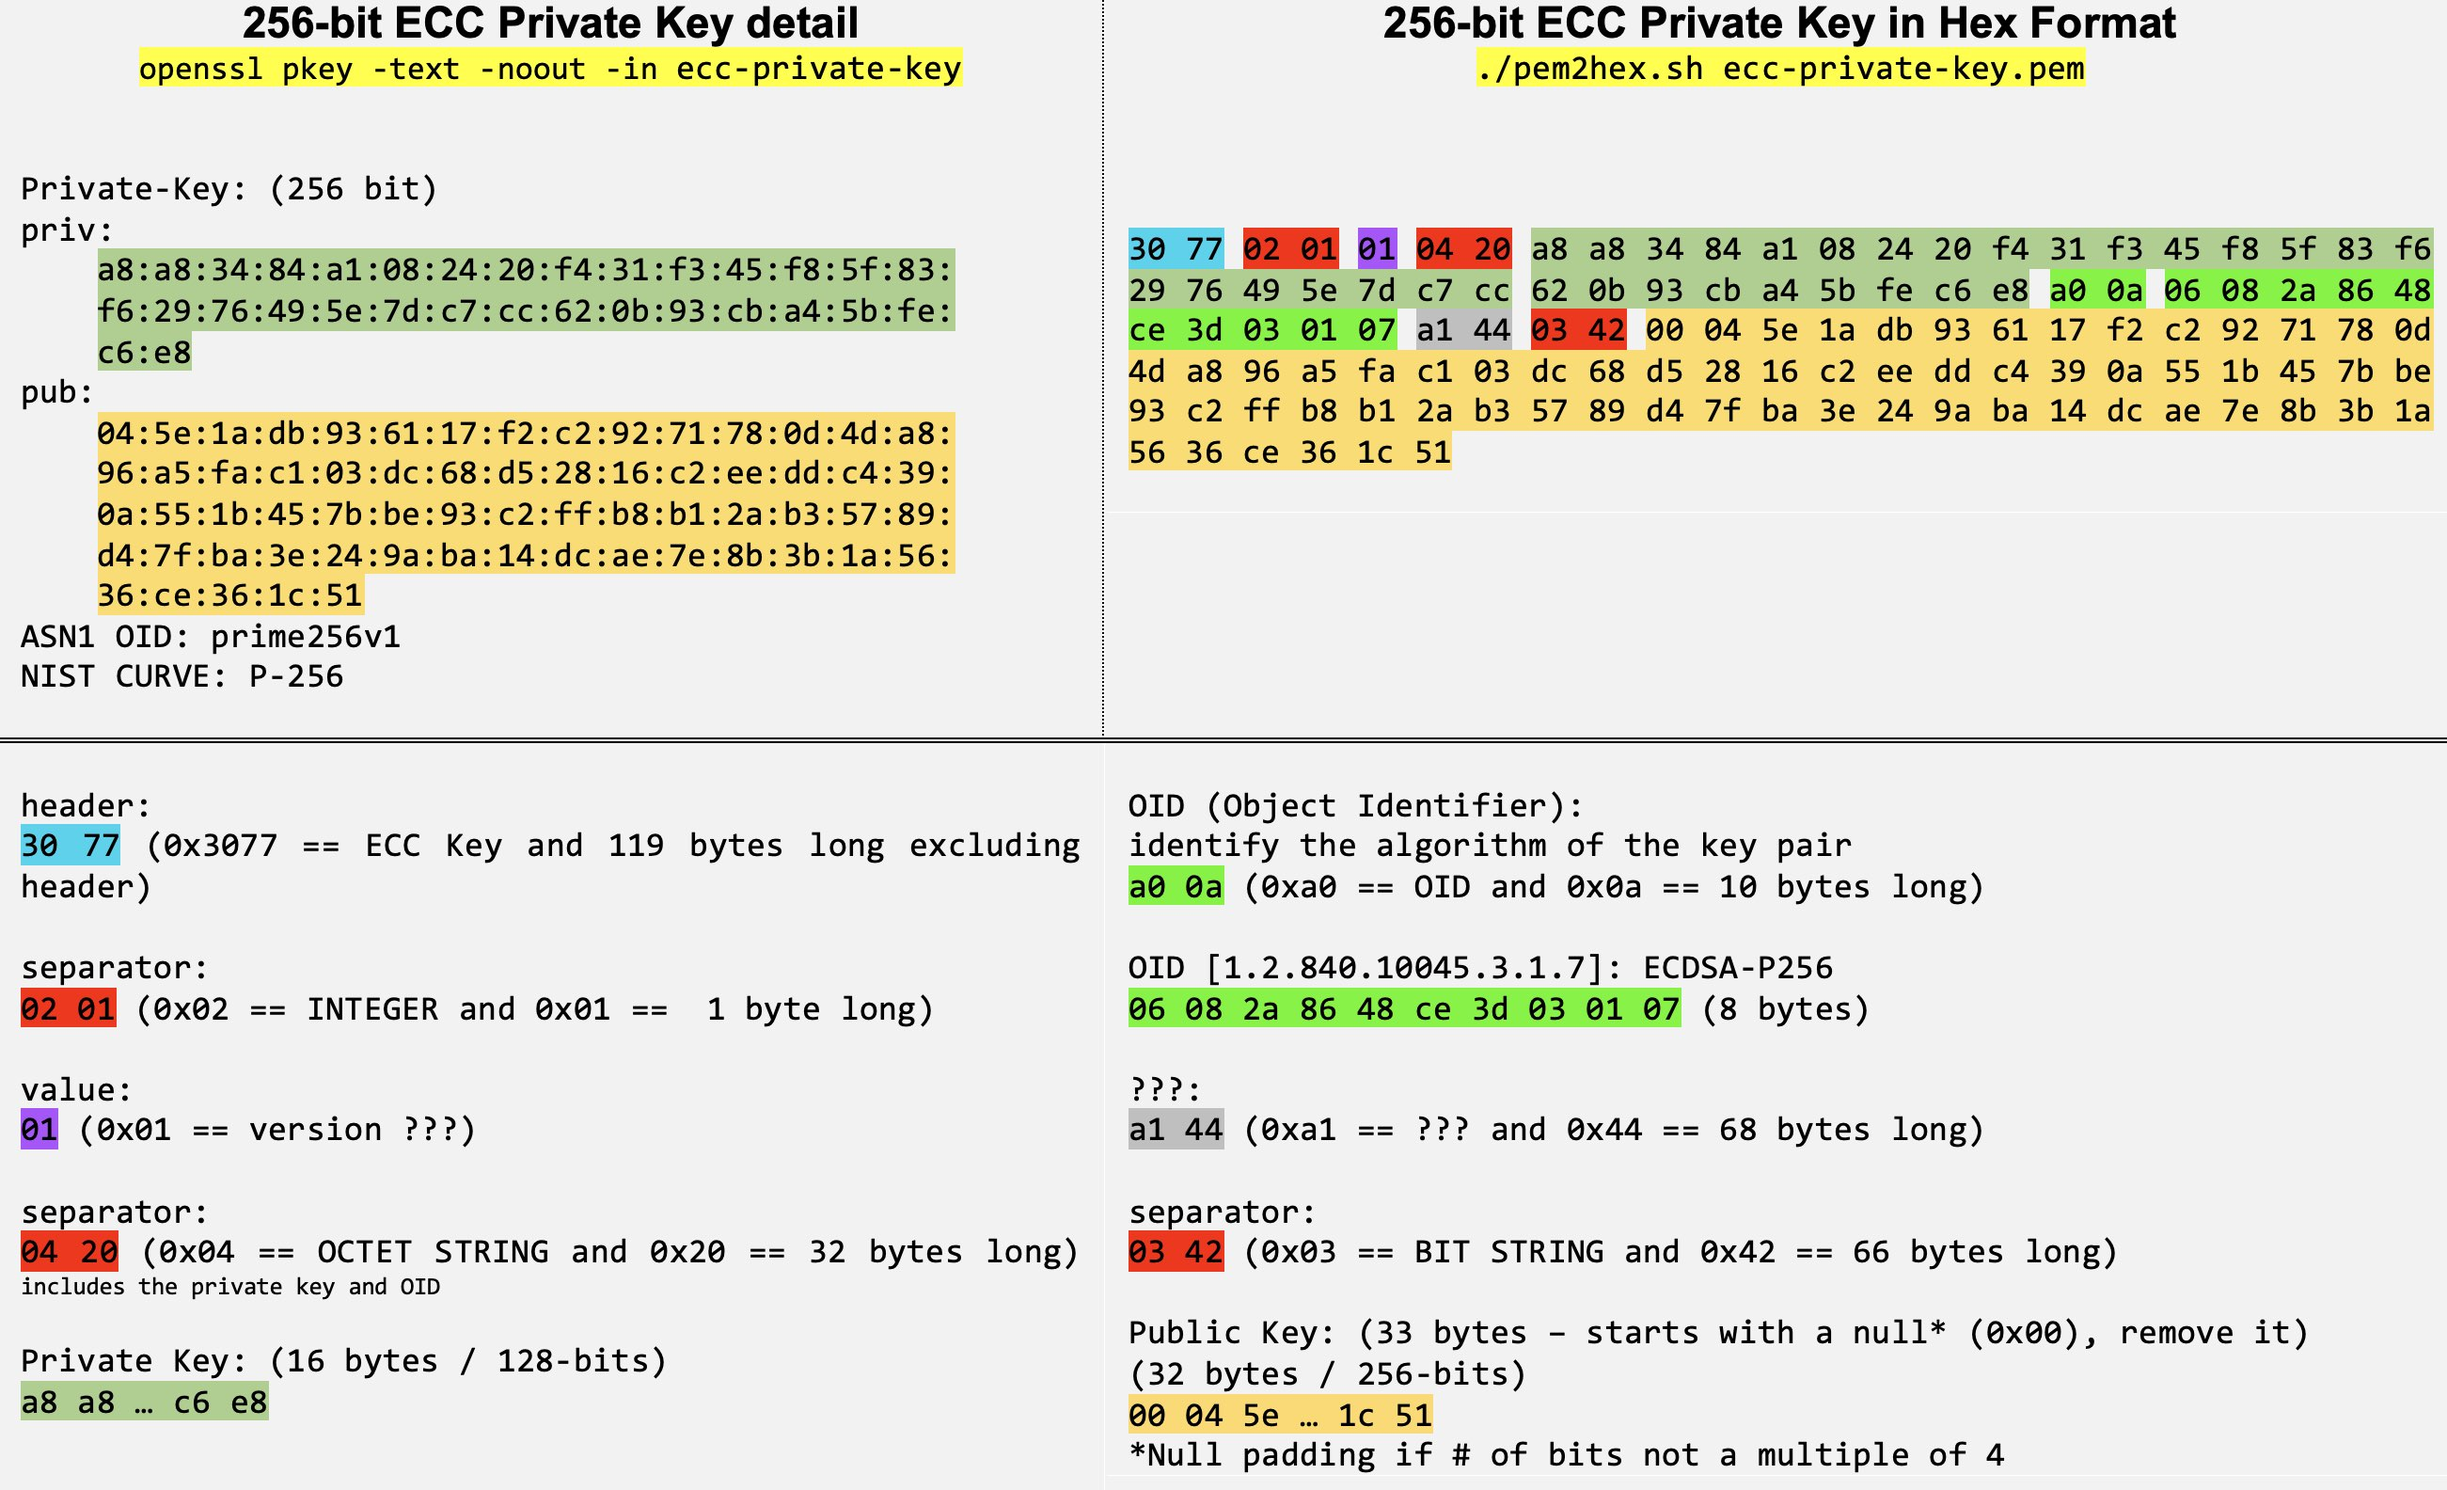
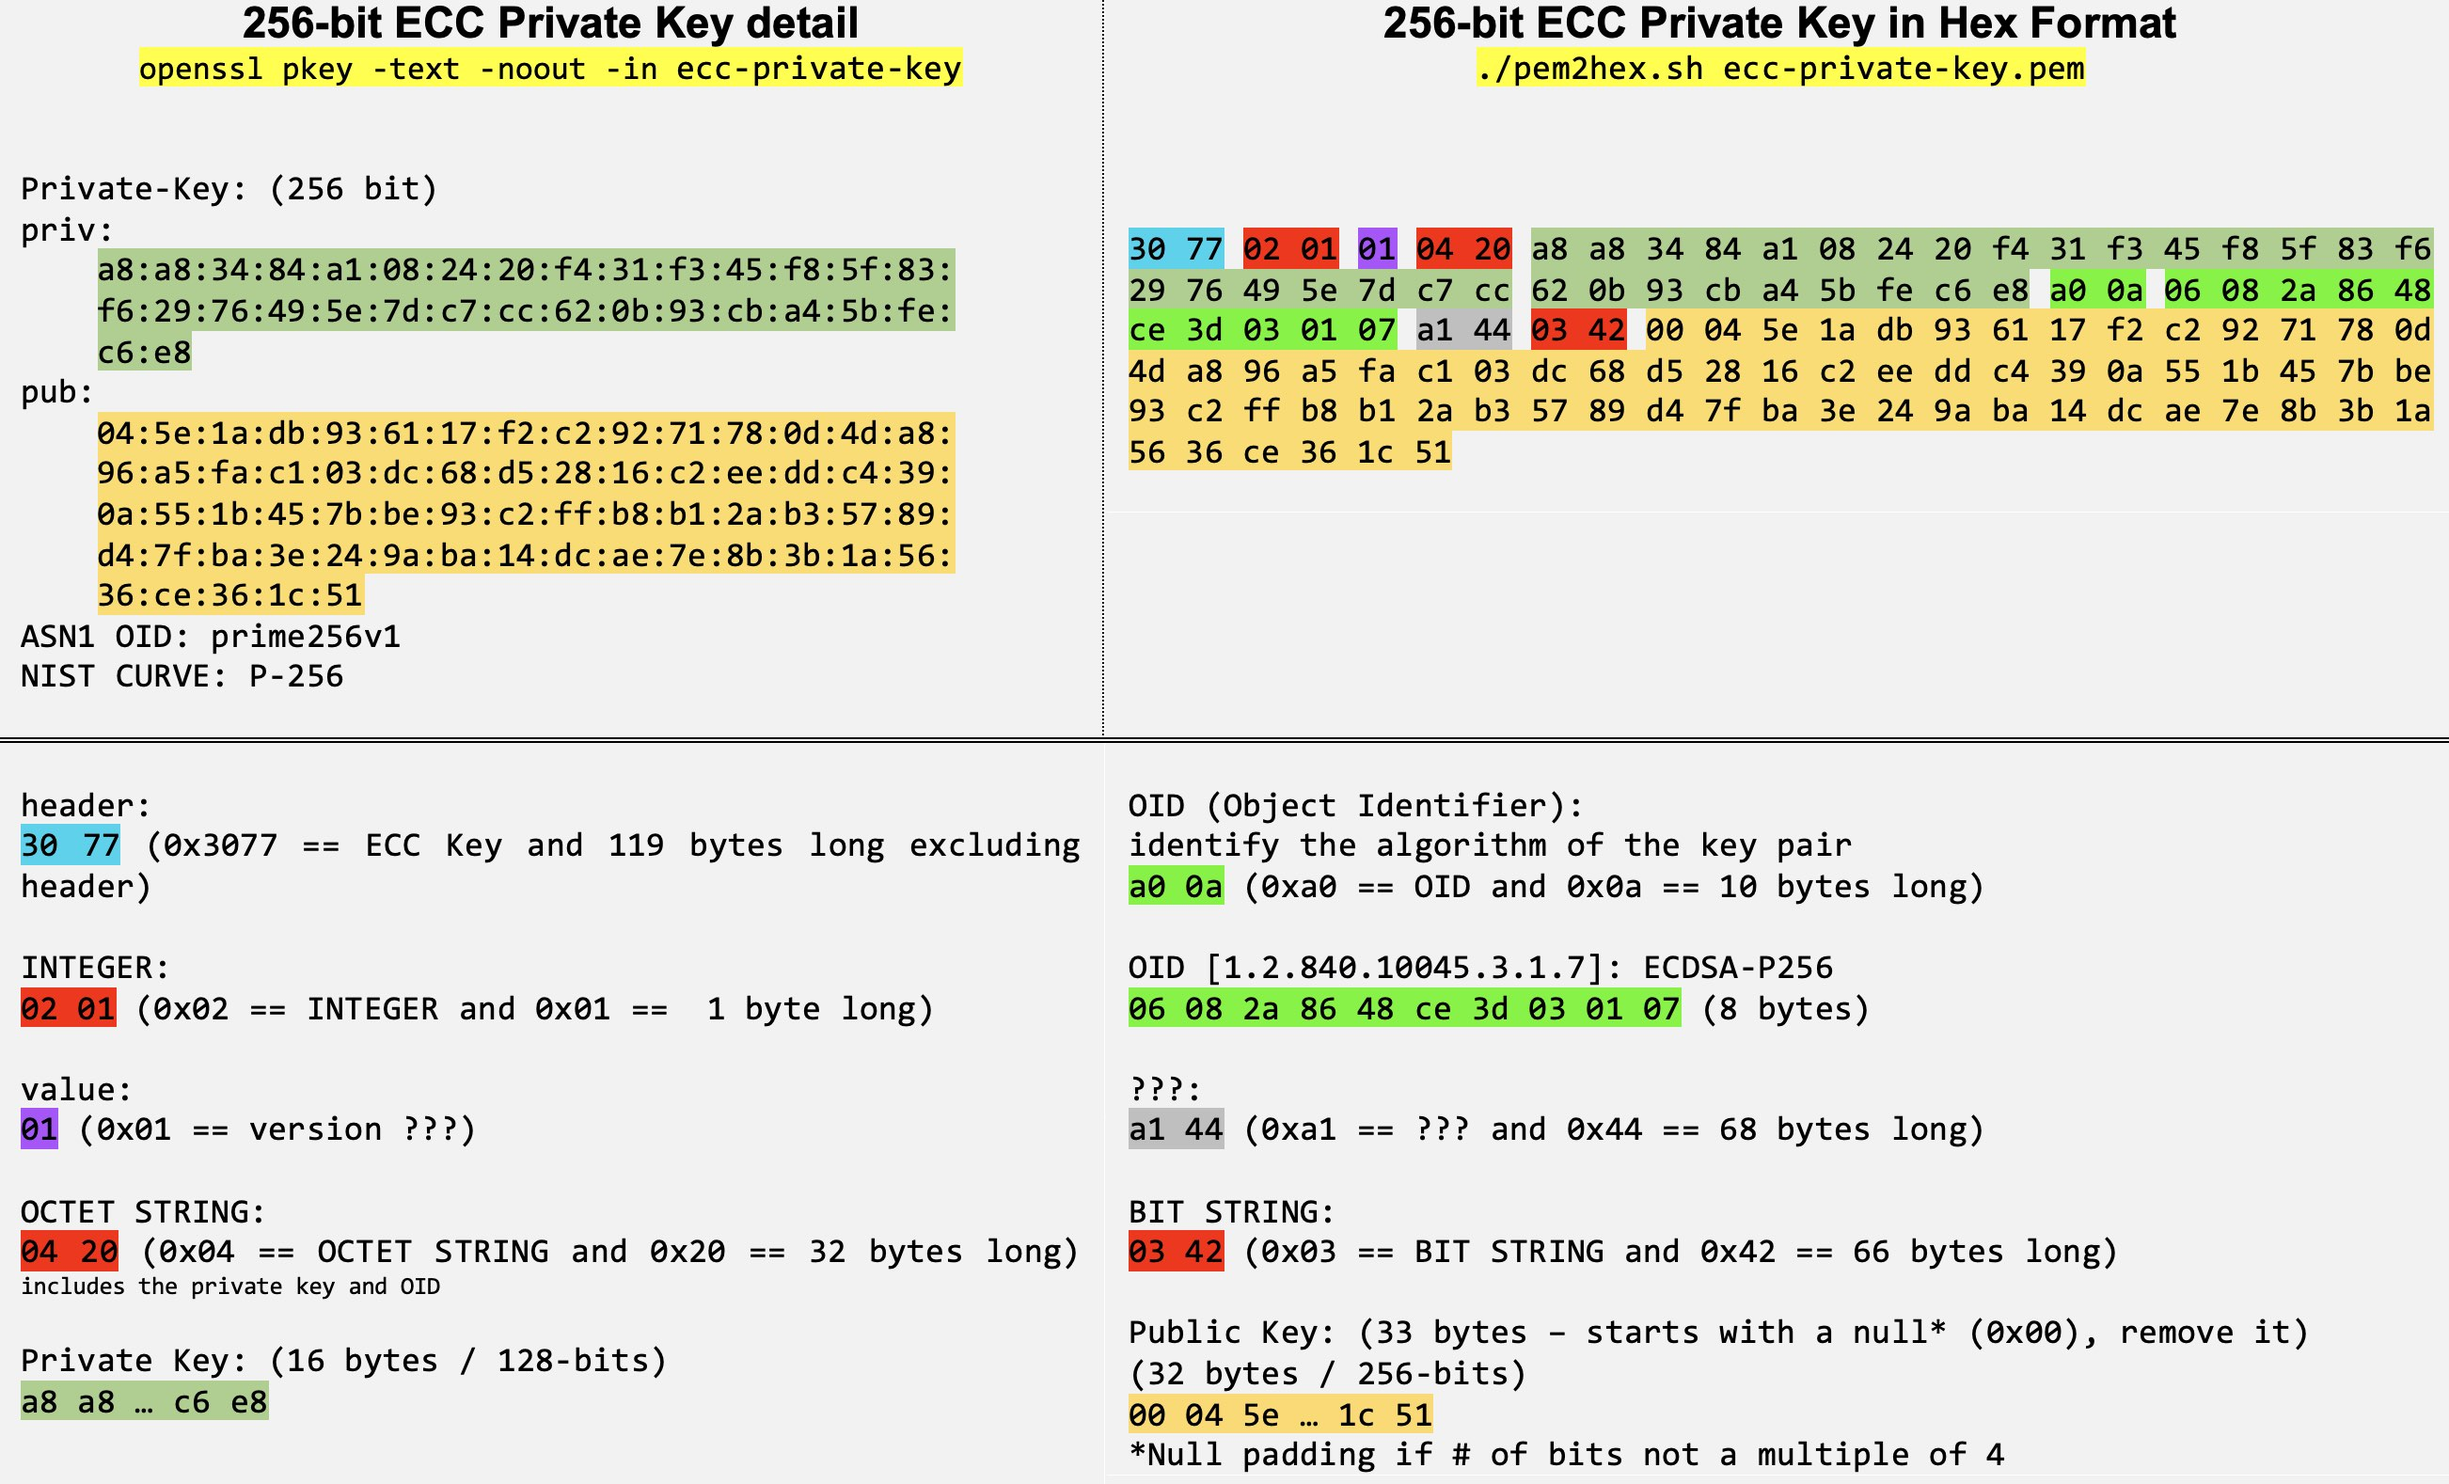
Initial commit

diff --git a/ECC Key Anatomy/README.md b/ECC Key Anatomy/README.md
@@ -89,25 +89,25 @@ To get the OID value, just type:
 ```shell
 ./oid -x 06082a8648ce3d030107 
 ```
->This is what I meant when I said *a bit of reverse engineering*. I was left with some fields and I tried the get the OID value and found a match 😀
 The ouput should be:
 ```
 UNIVERSAL OID.1.2.840.10045.3.1.7
 ```
+>This is what I meant when I said *a bit of reverse engineering*. When decoding the file, I was left with some fields. I tried some numbers the get the OID value and found a match 😀  
 ## OID value representation
 The representation of the OID was taken from Microsoft [here](https://learn.microsoft.com/en-us/openspecs/windows_protocols/ms-gpnap/ff1a8675-0008-408c-ba5f-686a10389adc)
 ![Alt text](/images/key-oid-ecc.jpg "Key pair OID")
 ## OpenSSL ASN.1 Parser
-OpenSSL includes an ASN.1 parser. The numbers is the first column are in hexadecimal. They represent the byte offset of the binary private key file.
+OpenSSL includes an ASN.1 parser. The numbers is the first column represent the byte offset of the binary private key file.
 ```shell
 openssl asn1parse -inform pem -in ecc-private-key.pem
 ```
 ```
  0:d=0  hl=2 l= 119 cons: SEQUENCE
- 2:d=1  hl=2 l=   1 prim: INTEGER           :01
- 5:d=1  hl=2 l=  32 prim: OCTET STRING      [HEX DUMP]:A8A83484A1082420F431F345F85F83F62976495E7DC7CC620B93CBA45BFEC6E8
+ 2:d=1  hl=2 l=   1 prim: INTEGER       :01
+ 5:d=1  hl=2 l=  32 prim: OCTET STRING  [HEX DUMP]:A8A83484A1082420F431F345F85F83F62976495E7DC7CC620B93CBA45BFEC6E8
 39:d=1  hl=2 l=  10 cons: cont [ 0 ]
-41:d=2  hl=2 l=   8 prim: OBJECT            :prime256v1
+41:d=2  hl=2 l=   8 prim: OBJECT        :prime256v1
 51:d=1  hl=2 l=  68 cons: cont [ 1 ]
 53:d=2  hl=2 l=  66 prim: BIT STRING
 ```
